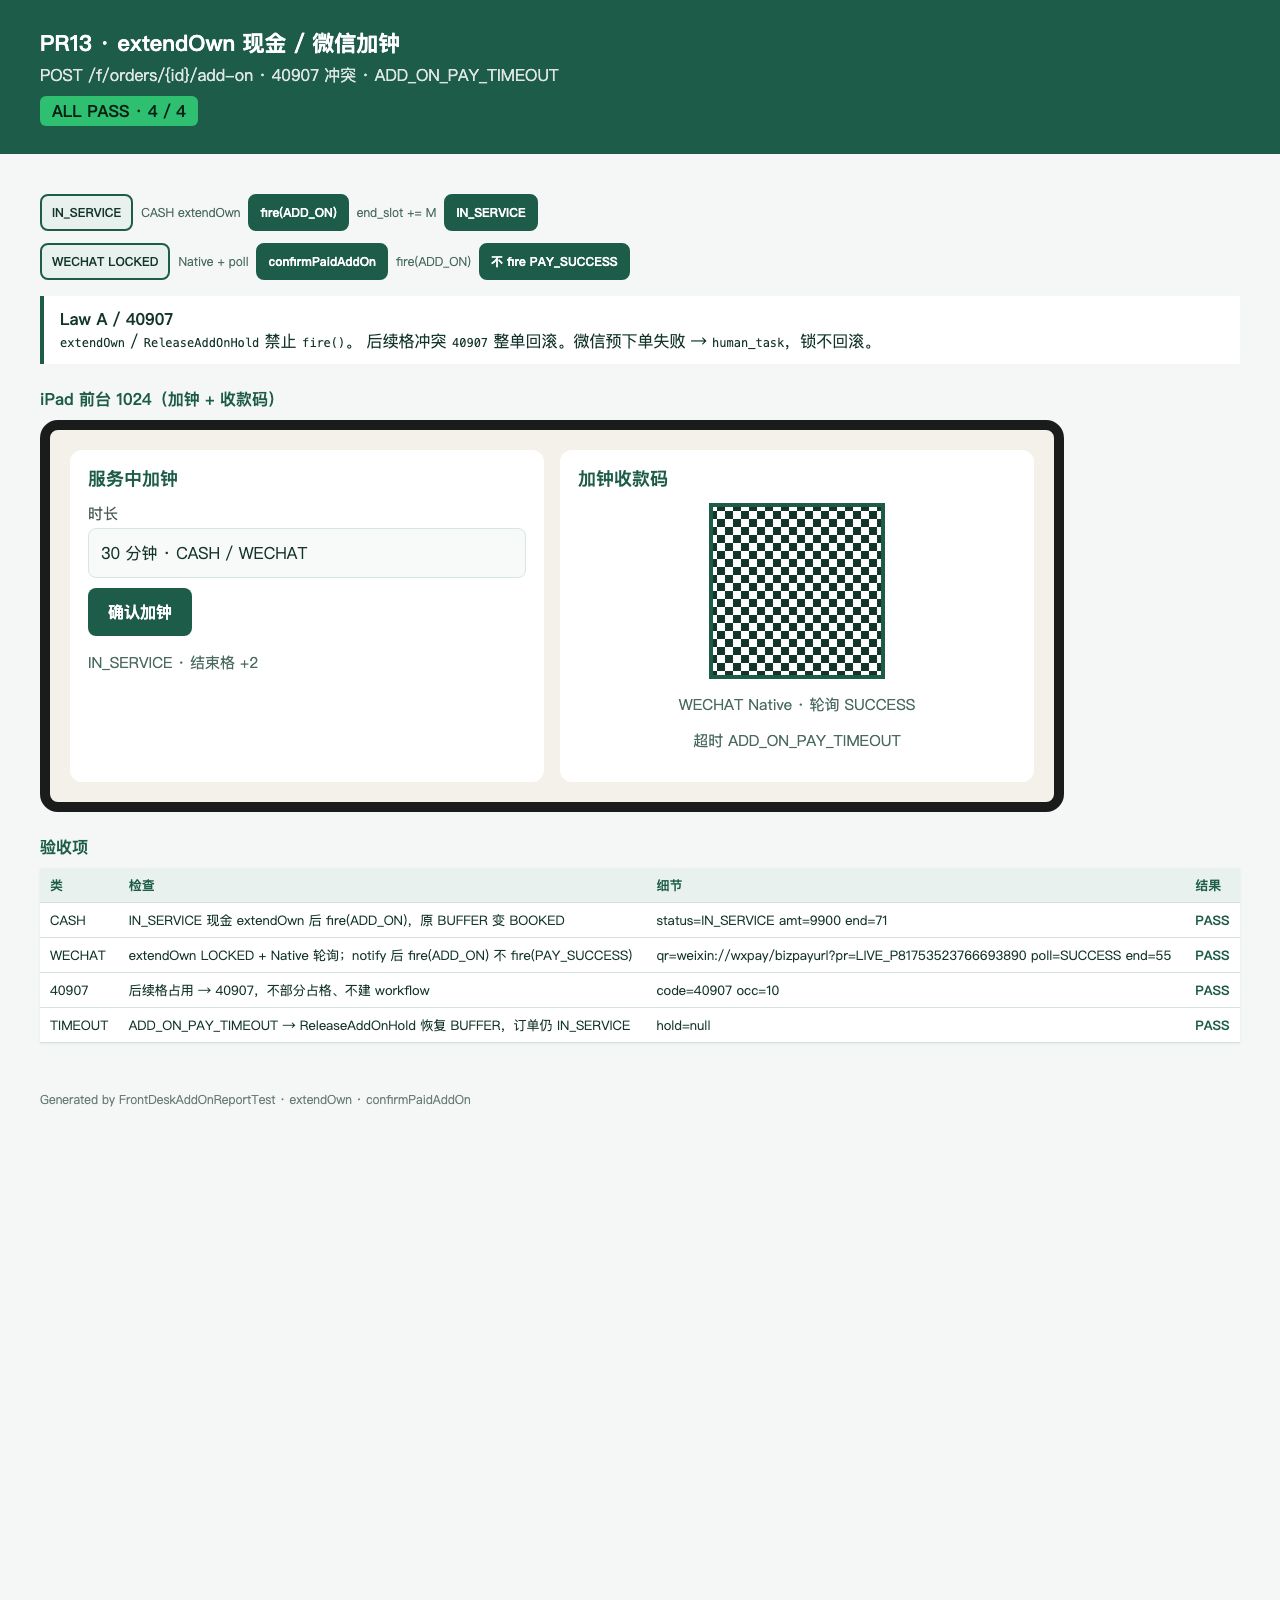
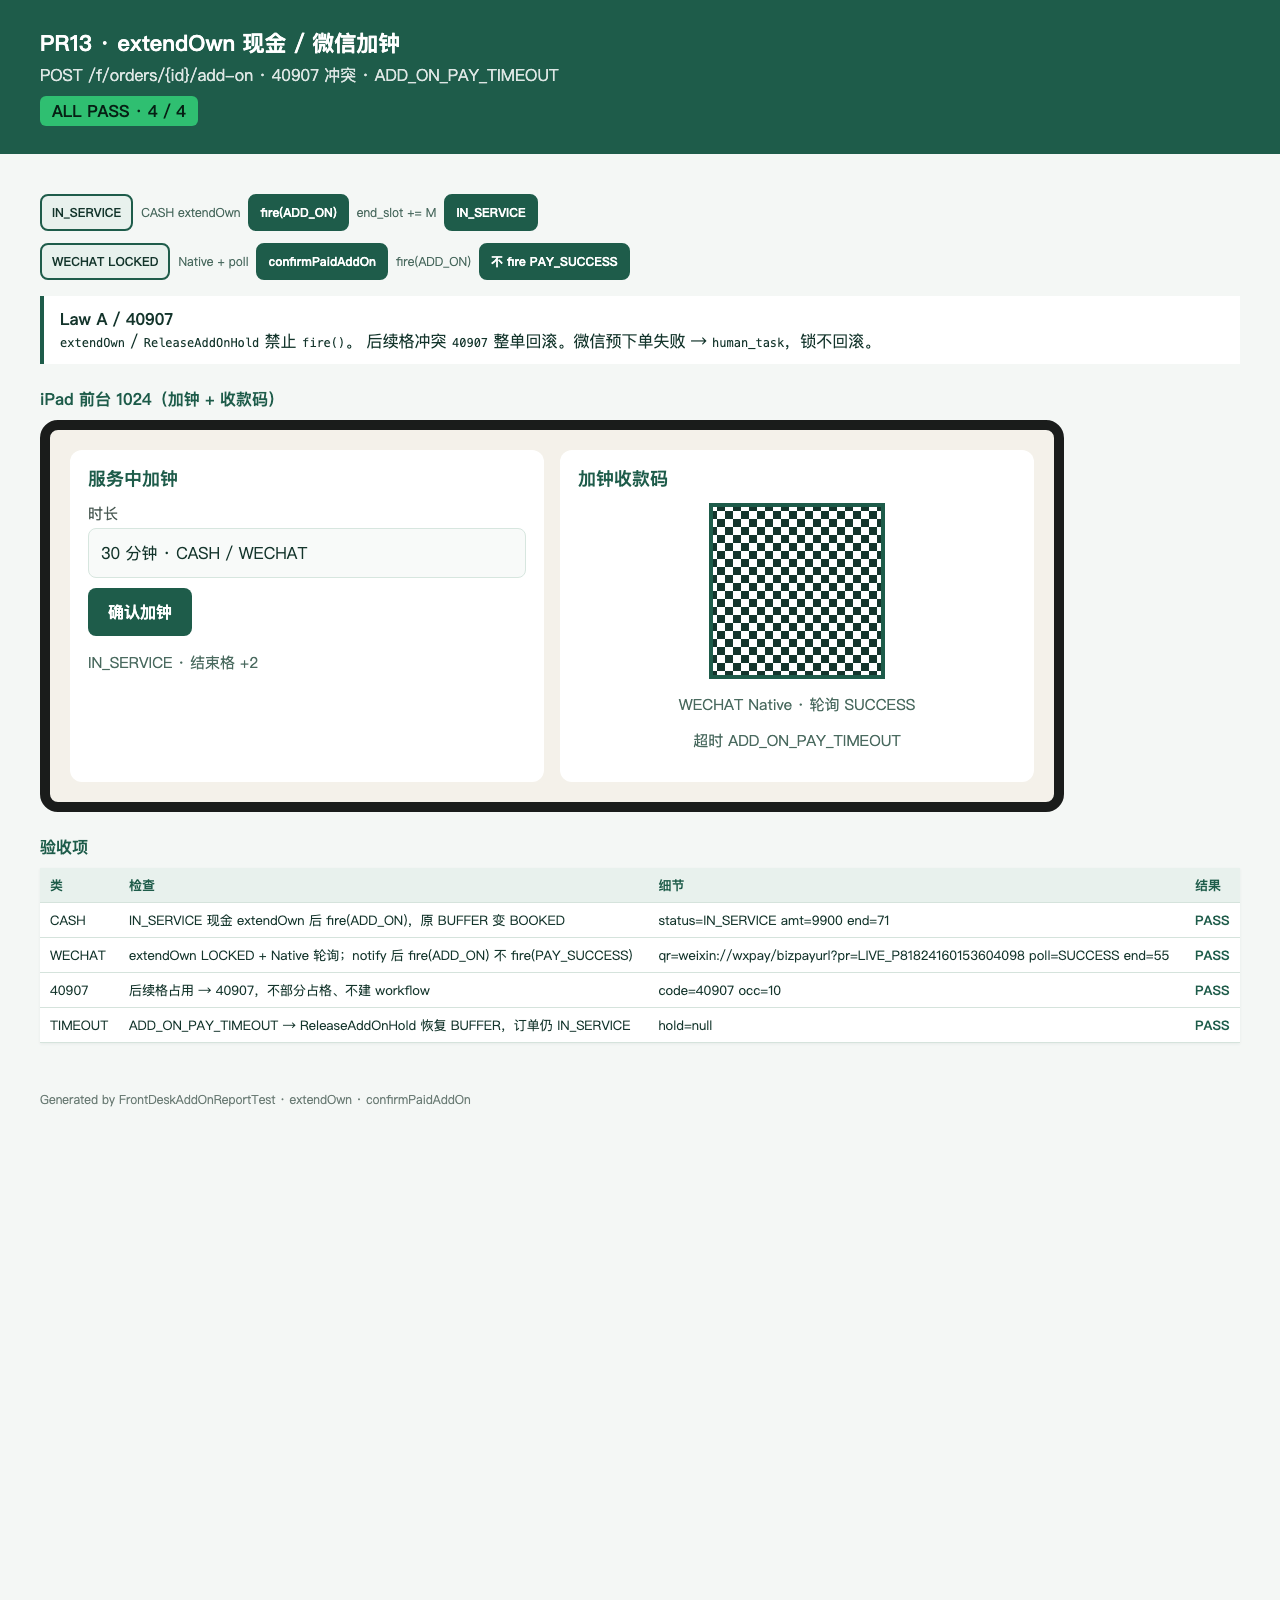
fix: make id generation and the transition table deterministic
`docs/test-cases/*.html` is committed, and every `mvn test` re-dirtied ten of
them. That is not a reporting nuisance — two of the three causes are real
defects in shipped code:

- `OrderStateMachine.transfers()` built its table with `Map.copyOf`, whose
  iteration order is salted per JVM. The public accessor therefore returned
  the state machine in a different order on every boot. Now a
  `LinkedHashMap`, which preserves the declaration order — transitions
  grouped by from-state, the order a reader expects.
- `SnowflakeIdGenerator` read `System.currentTimeMillis()` directly, so the
  one knob that freezes time could not freeze id generation. It now takes the
  shared `Clock` bean; under a fixed clock the sequence is reproducible.

The third is genuine nondeterminism and stays that way: which racer wins in
`LockNewReportTest` is the point of the test. Only the report rows are now
sorted — the outcome multiset is the claim being made, not who drew which
outcome.

`SnowflakeIdGenerator` deliberately keeps a single constructor. A convenience
overload would sit next to `AppClock`, which is itself a `Clock` wrapper, and
the two would be one import away from being silently swapped at a call site.

Reports regenerated; three consecutive full runs now produce byte-identical
output, screenshots included.

Changed region(s): [[0.5, 0.5625, 0.875, 0.625], [0.0938, 0.5938, 0.3438, 0.625]]

diff --git a/docs/test-cases/pr-6-state-machine.html b/docs/test-cases/pr-6-state-machine.html
@@ -96,28 +96,28 @@
     <table>
       <thead><tr><th>类</th><th>检查</th><th>细节</th><th>结果</th></tr></thead>
       <tbody>
-<tr class='ok'><td>TABLE</td><td>IN_SERVICE + COMPLETE_SERVICE → COMPLETED</td><td>[ENDED_AT]</td><td>PASS</td></tr>
-<tr class='ok'><td>TABLE</td><td>BOOKED + MARK_NO_SHOW → NO_SHOW</td><td>[RELEASE_UNCONSUMED_START, NO_SHOW_COUNT]</td><td>PASS</td></tr>
-<tr class='ok'><td>TABLE</td><td>BOOKED + CANCEL → CANCELLED</td><td>[REFUND, RELEASE_UNCONSUMED_START]</td><td>PASS</td></tr>
-<tr class='ok'><td>TABLE</td><td>IN_SERVICE + SWAP_THERAPIST → IN_SERVICE</td><td>[SWAP_THERAPIST]</td><td>PASS</td></tr>
-<tr class='ok'><td>TABLE</td><td>COMPLETED + REVIEW → REVIEWED</td><td>[NONE]</td><td>PASS</td></tr>
-<tr class='ok'><td>TABLE</td><td>IN_SERVICE + ABORT → ABNORMAL</td><td>[RELEASE_UNCONSUMED_NOW]</td><td>PASS</td></tr>
-<tr class='ok'><td>TABLE</td><td>IN_SERVICE + REFUND → CANCELLED</td><td>[REFUND, RELEASE_UNCONSUMED_NOW]</td><td>PASS</td></tr>
+<tr class='ok'><td>TABLE</td><td>PENDING_PAY + PAY_SUCCESS → BOOKED</td><td>[CONFIRM_PAID]</td><td>PASS</td></tr>
 <tr class='ok'><td>TABLE</td><td>PENDING_PAY + PAY_TIMEOUT → CLOSED</td><td>[RELEASE_LOCK]</td><td>PASS</td></tr>
-<tr class='ok'><td>TABLE</td><td>ABNORMAL + RESOLVE_CANCEL → CANCELLED</td><td>[RELEASE_UNCONSUMED_NOW]</td><td>PASS</td></tr>
+<tr class='ok'><td>TABLE</td><td>PENDING_PAY + USER_CANCEL → CLOSED</td><td>[RELEASE_LOCK]</td><td>PASS</td></tr>
+<tr class='ok'><td>TABLE</td><td>BOOKED + CHECK_IN → CHECKED_IN</td><td>[CHECKED_IN_AT]</td><td>PASS</td></tr>
+<tr class='ok'><td>TABLE</td><td>BOOKED + CANCEL → CANCELLED</td><td>[REFUND, RELEASE_UNCONSUMED_START]</td><td>PASS</td></tr>
+<tr class='ok'><td>TABLE</td><td>BOOKED + REFUND → CANCELLED</td><td>[REFUND, RELEASE_UNCONSUMED_START]</td><td>PASS</td></tr>
+<tr class='ok'><td>TABLE</td><td>BOOKED + RESCHEDULE → BOOKED</td><td>[RESCHEDULE]</td><td>PASS</td></tr>
+<tr class='ok'><td>TABLE</td><td>BOOKED + MARK_NO_SHOW → NO_SHOW</td><td>[RELEASE_UNCONSUMED_START, NO_SHOW_COUNT]</td><td>PASS</td></tr>
 <tr class='ok'><td>TABLE</td><td>CHECKED_IN + START_SERVICE → IN_SERVICE</td><td>[SERVICE_RECORD]</td><td>PASS</td></tr>
 <tr class='ok'><td>TABLE</td><td>CHECKED_IN + SWAP_THERAPIST → CHECKED_IN</td><td>[SWAP_THERAPIST]</td><td>PASS</td></tr>
-<tr class='ok'><td>TABLE</td><td>BOOKED + RESCHEDULE → BOOKED</td><td>[RESCHEDULE]</td><td>PASS</td></tr>
-<tr class='ok'><td>TABLE</td><td>IN_SERVICE + ADD_ON_PAY_TIMEOUT → IN_SERVICE</td><td>[RELEASE_ADDON]</td><td>PASS</td></tr>
 <tr class='ok'><td>TABLE</td><td>CHECKED_IN + REFUND → CANCELLED</td><td>[REFUND, RELEASE_UNCONSUMED_START]</td><td>PASS</td></tr>
-<tr class='ok'><td>TABLE</td><td>BOOKED + REFUND → CANCELLED</td><td>[REFUND, RELEASE_UNCONSUMED_START]</td><td>PASS</td></tr>
-<tr class='ok'><td>TABLE</td><td>COMPLETED + REFUND → COMPLETED</td><td>[REFUND]</td><td>PASS</td></tr>
+<tr class='ok'><td>TABLE</td><td>IN_SERVICE + COMPLETE_SERVICE → COMPLETED</td><td>[ENDED_AT]</td><td>PASS</td></tr>
 <tr class='ok'><td>TABLE</td><td>IN_SERVICE + ADD_ON → IN_SERVICE</td><td>[NONE]</td><td>PASS</td></tr>
-<tr class='ok'><td>TABLE</td><td>BOOKED + CHECK_IN → CHECKED_IN</td><td>[CHECKED_IN_AT]</td><td>PASS</td></tr>
-<tr class='ok'><td>TABLE</td><td>PENDING_PAY + PAY_SUCCESS → BOOKED</td><td>[CONFIRM_PAID]</td><td>PASS</td></tr>
-<tr class='ok'><td>TABLE</td><td>CANCELLED + MARK_NO_SHOW → NO_SHOW</td><td>[NO_SHOW_COUNT]</td><td>PASS</td></tr>
+<tr class='ok'><td>TABLE</td><td>IN_SERVICE + ADD_ON_PAY_TIMEOUT → IN_SERVICE</td><td>[RELEASE_ADDON]</td><td>PASS</td></tr>
+<tr class='ok'><td>TABLE</td><td>IN_SERVICE + SWAP_THERAPIST → IN_SERVICE</td><td>[SWAP_THERAPIST]</td><td>PASS</td></tr>
+<tr class='ok'><td>TABLE</td><td>IN_SERVICE + ABORT → ABNORMAL</td><td>[RELEASE_UNCONSUMED_NOW]</td><td>PASS</td></tr>
+<tr class='ok'><td>TABLE</td><td>IN_SERVICE + REFUND → CANCELLED</td><td>[REFUND, RELEASE_UNCONSUMED_NOW]</td><td>PASS</td></tr>
 <tr class='ok'><td>TABLE</td><td>ABNORMAL + RESOLVE_COMPLETE → COMPLETED</td><td>[NONE]</td><td>PASS</td></tr>
-<tr class='ok'><td>TABLE</td><td>PENDING_PAY + USER_CANCEL → CLOSED</td><td>[RELEASE_LOCK]</td><td>PASS</td></tr>
+<tr class='ok'><td>TABLE</td><td>ABNORMAL + RESOLVE_CANCEL → CANCELLED</td><td>[RELEASE_UNCONSUMED_NOW]</td><td>PASS</td></tr>
+<tr class='ok'><td>TABLE</td><td>COMPLETED + REVIEW → REVIEWED</td><td>[NONE]</td><td>PASS</td></tr>
+<tr class='ok'><td>TABLE</td><td>COMPLETED + REFUND → COMPLETED</td><td>[REFUND]</td><td>PASS</td></tr>
+<tr class='ok'><td>TABLE</td><td>CANCELLED + MARK_NO_SHOW → NO_SHOW</td><td>[NO_SHOW_COUNT]</td><td>PASS</td></tr>
 <tr class='ok'><td>CLOSED</td><td>未列出 (from,event) 全部 40904</td><td>illegal=148 40904=148</td><td>PASS</td></tr>
 <tr class='ok'><td>SIDE</td><td>PENDING_PAY + PAY_SUCCESS → BOOKED + confirmPaidSlots</td><td>status=BOOKED job=DONE</td><td>PASS</td></tr>
 <tr class='ok'><td>LAW A</td><td>fire 写 CLOSED 后 ReleaseLock；ReleaseLock 不再 fire</td><td>to=CLOSED</td><td>PASS</td></tr>

diff --git a/docs/test-cases/pr-21-manager-m1.html b/docs/test-cases/pr-21-manager-m1.html
@@ -86,11 +86,11 @@
       <div class="card">
         <div class="h2">待办 · 3</div>
 <div class='group-label'>请假审批 · 1</div>
-<div class='task'><div class='task-main'><div class='task-title'>请假审批 2026-08-16 技师 3100000000000000401</div><div class='task-meta'>LEAVE_APPROVE · leave:81753521241722880</div></div><div class='acts'><div class='btn'>通过</div><div class='btn ghost'>驳回</div></div></div>
+<div class='task'><div class='task-main'><div class='task-title'>请假审批 2026-08-16 技师 3100000000000000401</div><div class='task-meta'>LEAVE_APPROVE · leave:81824160153604132</div></div><div class='acts'><div class='btn'>通过</div><div class='btn ghost'>驳回</div></div></div>
 <div class='group-label'>退款审批 ≥¥500 · 1</div>
-<div class='task'><div class='task-main'><div class='task-title'>退款待审批 ≥¥500（审批=放款）</div><div class='task-meta'>REFUND_APPROVE · refund_approve:81753521476603904</div></div><div class='acts'><div class='btn'>通过</div><div class='btn ghost'>驳回</div></div></div>
+<div class='task'><div class='task-main'><div class='task-title'>退款待审批 ≥¥500（审批=放款）</div><div class='task-meta'>REFUND_APPROVE · refund_approve:81824160153604172</div></div><div class='acts'><div class='btn'>通过</div><div class='btn ghost'>驳回</div></div></div>
 <div class='group-label'>异常单 · 1</div>
-<div class='task'><div class='task-main'><div class='task-title'>异常单待处理 JS2026081413026049</div><div class='task-meta'>ORDER_ABNORMAL · abnormal:81753521313026049</div></div><div class='acts'><div class='btn'>按完成</div><div class='btn ghost'>按取消</div><div class='btn ghost'>忽略</div></div></div>
+<div class='task'><div class='task-main'><div class='task-title'>异常单待处理 JS2026081453604137</div><div class='task-meta'>ORDER_ABNORMAL · abnormal:81824160153604137</div></div><div class='acts'><div class='btn'>按完成</div><div class='btn ghost'>按取消</div><div class='btn ghost'>忽略</div></div></div>
       </div>
     </div>
   </div>

diff --git a/docs/test-cases/pr-21-manager-board.html b/docs/test-cases/pr-21-manager-board.html
@@ -49,12 +49,12 @@
 <tr class='ok'><td>M1</td><td>落单后满班率上升（分母不含 REST）</td><td>0 → 347</td><td>PASS</td></tr>
 <tr class='ok'><td>M1</td><td>分时满班率有峰值，可定位忙闲</td><td>peak=3333 fullDay=347</td><td>PASS</td></tr>
 <tr class='ok'><td>QUEUE</td><td>OPEN 队列同时含请假 / 退款 / 异常单</td><td>leave=1 refund=1 abnormal=1 queue=0</td><td>PASS</td></tr>
-<tr class='ok'><td>QUEUE</td><td>未知类型兜底进人工队列，不丢单</td><td>bizKey=leave:81753521241722880</td><td>PASS</td></tr>
+<tr class='ok'><td>QUEUE</td><td>未知类型兜底进人工队列，不丢单</td><td>bizKey=leave:81824160153604132</td><td>PASS</td></tr>
 <tr class='ok'><td>RBAC</td><td>前台无 schedule:approve → 40301</td><td>40301</td><td>PASS</td></tr>
 <tr class='ok'><td>M1</td><td>通过请假 → FREE 翻 REST，任务关闭</td><td>status=APPROVED restSlots=8</td><td>PASS</td></tr>
 <tr class='ok'><td>M1</td><td>异常单按完成结单 → COMPLETED + DONE</td><td>order=COMPLETED task=DONE</td><td>PASS</td></tr>
 <tr class='ok'><td>M1</td><td>≥¥500 退款审批通过 → 微信退款真调用</td><td>wf=SUCCESS refundCalls=2</td><td>PASS</td></tr>
-<tr class='ok'><td>QUEUE</td><td>处理完队列清空，店长台回到 0 待办</td><td>open=0 refundOrder=81753521396912129</td><td>PASS</td></tr>
+<tr class='ok'><td>QUEUE</td><td>处理完队列清空，店长台回到 0 待办</td><td>open=0 refundOrder=81824160153604157</td><td>PASS</td></tr>
 <tr class='ok'><td>A11Y</td><td>正文最小字号 ≥ 30rpx(15px)</td><td>min=30rpx</td><td>PASS</td></tr>
 <tr class='ok'><td>A11Y</td><td>主操作 ≥ 96rpx(48px) tap target</td><td>btn 96rpx / tag 96rpx</td><td>PASS</td></tr>
 <tr class='ok'><td>A11Y</td><td>分组 key 语义化，无数字编号</td><td>leave / refund / abnormal / queue</td><td>PASS</td></tr>

diff --git a/docs/test-cases/pr-10-staff-board.html b/docs/test-cases/pr-10-staff-board.html
@@ -46,12 +46,12 @@
       <thead><tr><th>类</th><th>检查</th><th>细节</th><th>结果</th></tr></thead>
       <tbody>
 <tr class='ok'><td>AUTH</td><td>GET /t/today 无 JWT → 40101</td><td>40101</td><td>PASS</td></tr>
-<tr class='ok'><td>T1</td><td>下一单卡片 who/when/bed/project/new guest</td><td>{orderId=81753539675688961, status=CHECKED_IN, start=19:30, end=20:30, projectName=全身推拿放松, roomName=一号房, bedName=1号床, customerName=王先生, isNewCustomer=true, minutesToStart=310}</td><td>PASS</td></tr>
+<tr class='ok'><td>T1</td><td>下一单卡片 who/when/bed/project/new guest</td><td>{orderId=81824160153604502, status=CHECKED_IN, start=19:30, end=20:30, projectName=全身推拿放松, roomName=一号房, bedName=1号床, customerName=王先生, isNewCustomer=true, minutesToStart=30}</td><td>PASS</td></tr>
 <tr class='ok'><td>T2</td><td>POST /t/orders/{id}/start → IN_SERVICE</td><td>IN_SERVICE</td><td>PASS</td></tr>
 <tr class='ok'><td>T2</td><td>他师 start → 40904</td><td>40904</td><td>PASS</td></tr>
 <tr class='ok'><td>NOTE</td><td>服务技师空记录 GET 200 []</td><td>items=[]</td><td>PASS</td></tr>
 <tr class='ok'><td>NOTE</td><td>D27 无同意 40301；POST 只增；GET 仅本人</td><td>deny=40301 items=1 t2=40401</td><td>PASS</td></tr>
-<tr class='ok'><td>T1</td><td>GET /t/me/today 别名 + GET /t/orders/{id} 绑定本单</td><td>opened=81753539675688961 record=true</td><td>PASS</td></tr>
+<tr class='ok'><td>T1</td><td>GET /t/me/today 别名 + GET /t/orders/{id} 绑定本单</td><td>opened=81824160153604502 record=true</td><td>PASS</td></tr>
 <tr class='ok'><td>T2</td><td>POST /t/orders/{id}/complete → COMPLETED</td><td>COMPLETED</td><td>PASS</td></tr>
       </tbody>
     </table>

diff --git a/docs/test-cases/pr-11-frontdesk.html b/docs/test-cases/pr-11-frontdesk.html
@@ -102,8 +102,8 @@
       <thead><tr><th>类</th><th>检查</th><th>细节</th><th>结果</th></tr></thead>
       <tbody>
 <tr class='ok'><td>CASH</td><td>散客现金 lockNew → PAY_SUCCESS → 同事务 CHECK_IN</td><td>status=CHECKED_IN mask=186****1111</td><td>PASS</td></tr>
-<tr class='ok'><td>MERGE</td><td>同一手机 CustomerMerge 复用散客行</td><td>customer=81753523322097664 orders=9100000000000000002/9100000000000000017</td><td>PASS</td></tr>
-<tr class='ok'><td>WECHAT</td><td>Native 收款码 + GET /f/payments 轮询至 SUCCESS 再核销</td><td>qr=weixin://wxpay/bizpayurl?pr=LIVE_P81753523326291969 poll=SUCCESS checkIn=CHECKED_IN</td><td>PASS</td></tr>
+<tr class='ok'><td>MERGE</td><td>同一手机 CustomerMerge 复用散客行</td><td>customer=81824160153604096 orders=9100000000000000002/9100000000000000017</td><td>PASS</td></tr>
+<tr class='ok'><td>WECHAT</td><td>Native 收款码 + GET /f/payments 轮询至 SUCCESS 再核销</td><td>qr=weixin://wxpay/bizpayurl?pr=LIVE_P81824160153604097 poll=SUCCESS checkIn=CHECKED_IN</td><td>PASS</td></tr>
 <tr class='ok'><td>LOOKUP</td><td>按手机 / 单号查找后 fire(CHECK_IN)</td><td>orderNo=JS2026081400000002 room=一号房 bed=1号床</td><td>PASS</td></tr>
       </tbody>
     </table>

diff --git a/docs/test-cases/pr-16-refund.html b/docs/test-cases/pr-16-refund.html
@@ -106,7 +106,7 @@
 <tr class='ok'><td>TWO</td><td>双 SUCCESS payment → 两张退款 / 两次微信</td><td>refunds=2 wechat=2</td><td>PASS</td></tr>
 <tr class='ok'><td>CASH</td><td>现金只记账不调微信</td><td>wxId=CASH wechat=0</td><td>PASS</td></tr>
 <tr class='ok'><td>APPROVE</td><td>≥50000 先 WAIT_APPROVAL，approve 后再调微信</td><td>wait=WAIT_APPROVAL after=SUCCESS wechat=2</td><td>PASS</td></tr>
-<tr class='ok'><td>IDEM</td><td>同一 requestId / refund_no 重放</td><td>refundNo=R81753506431635456 replay=true</td><td>PASS</td></tr>
+<tr class='ok'><td>IDEM</td><td>同一 requestId / refund_no 重放</td><td>refundNo=R81824160153604096 replay=true</td><td>PASS</td></tr>
 <tr class='ok'><td>PERM</td><td>IN_SERVICE 无 refund:after_start → 40904</td><td>40904=true</td><td>PASS</td></tr>
 <tr class='ok'><td>PENDING</td><td>PENDING_PAY 禁止走退款 API</td><td>status=PENDING_PAY → 40904</td><td>PASS</td></tr>
 <tr class='ok'><td>FAIL</td><td>微信退款失败 → workflow MANUAL + human_task</td><td>wf=MANUAL refund=FAILED</td><td>PASS</td></tr>

diff --git a/docs/test-cases/pr-13-addon.html b/docs/test-cases/pr-13-addon.html
@@ -95,7 +95,7 @@
       <thead><tr><th>类</th><th>检查</th><th>细节</th><th>结果</th></tr></thead>
       <tbody>
 <tr class='ok'><td>CASH</td><td>IN_SERVICE 现金 extendOwn 后 fire(ADD_ON)，原 BUFFER 变 BOOKED</td><td>status=IN_SERVICE amt=9900 end=71</td><td>PASS</td></tr>
-<tr class='ok'><td>WECHAT</td><td>extendOwn LOCKED + Native 轮询；notify 后 fire(ADD_ON) 不 fire(PAY_SUCCESS)</td><td>qr=weixin://wxpay/bizpayurl?pr=LIVE_P81753523766693890 poll=SUCCESS end=55</td><td>PASS</td></tr>
+<tr class='ok'><td>WECHAT</td><td>extendOwn LOCKED + Native 轮询；notify 后 fire(ADD_ON) 不 fire(PAY_SUCCESS)</td><td>qr=weixin://wxpay/bizpayurl?pr=LIVE_P81824160153604098 poll=SUCCESS end=55</td><td>PASS</td></tr>
 <tr class='ok'><td>40907</td><td>后续格占用 → 40907，不部分占格、不建 workflow</td><td>code=40907 occ=10</td><td>PASS</td></tr>
 <tr class='ok'><td>TIMEOUT</td><td>ADD_ON_PAY_TIMEOUT → ReleaseAddOnHold 恢复 BUFFER，订单仍 IN_SERVICE</td><td>hold=null</td><td>PASS</td></tr>
       </tbody>

diff --git a/docs/test-cases/pr-8-notify-pay.html b/docs/test-cases/pr-8-notify-pay.html
@@ -80,7 +80,7 @@
 <tr class='ok'><td>NOTIFY</td><td>金额不符 → FAILED + human_task + APIv3 SUCCESS</td><td>pay=FAILED order=PENDING_PAY tasks=1</td><td>PASS</td></tr>
 <tr class='ok'><td>REFUND</td><td>CLOSED+已扣款 → 入退款队列且不 PAY_SUCCESS</td><td>order=CLOSED occ=0 refund=PENDING wf=REFUND</td><td>PASS</td></tr>
 <tr class='ok'><td>D25</td><td>先支付再跑原 RELEASE_LOCK → 订单 BOOKED、job DONE</td><td>order=BOOKED job=DONE fire=40904 occ=10</td><td>PASS</td></tr>
-<tr class='ok'><td>REPAY</td><td>1:1 prepay 未过期复用</td><td>paymentNo=P81753506381303808 reused=true</td><td>PASS</td></tr>
+<tr class='ok'><td>REPAY</td><td>1:1 prepay 未过期复用</td><td>paymentNo=P81824160153604096 reused=true</td><td>PASS</td></tr>
       </tbody>
     </table>
   </main>

diff --git a/docs/test-cases/pr-10-t1-t2.html b/docs/test-cases/pr-10-t1-t2.html
@@ -43,7 +43,7 @@
 <body>
   <header>
     <h1>mini-staff T1 / T2 HTML preview</h1>
-    <p>WeChat 开发者工具未接入时的页面验收。最小字号 15px，主操作 48px tap target。orderId=81753539675688961</p>
+    <p>WeChat 开发者工具未接入时的页面验收。最小字号 15px，主操作 48px tap target。orderId=81824160153604502</p>
   </header>
   <div class="wrap">
     <div class="phone">

diff --git a/docs/test-cases/pr-3b-lock-report.html b/docs/test-cases/pr-3b-lock-report.html
@@ -67,8 +67,8 @@
       <thead><tr><th>code</th><th>含义</th></tr></thead>
       <tbody>
         <tr><td>0</td><td>success PENDING_PAY</td></tr>
-<tr><td>40902</td><td>40902 无空闲床位</td></tr>
 <tr><td>0</td><td>success PENDING_PAY</td></tr>
+<tr><td>40902</td><td>40902 无空闲床位</td></tr>
 
       </tbody>
     </table>

diff --git a/server/src/main/java/com/jisuodashi/common/SnowflakeIdGenerator.java b/server/src/main/java/com/jisuodashi/common/SnowflakeIdGenerator.java
@@ -2,6 +2,7 @@ package com.jisuodashi.common;
 
 import org.springframework.stereotype.Component;
 
+import java.time.Clock;
 import java.time.Instant;
 import java.util.concurrent.atomic.AtomicLong;
 
@@ -18,18 +19,26 @@ public class SnowflakeIdGenerator {
     private static final long MAX_SEQ = (1L << SEQ_BITS) - 1;
 
     private final long workerId;
+    private final Clock clock;
     private final AtomicLong lastMsAndSeq = new AtomicLong(0);
 
-    public SnowflakeIdGenerator(AppProperties properties) {
+    /**
+     * Takes the shared {@link Clock} bean rather than reading the wall clock directly, so the one
+     * knob that freezes time freezes id generation with it. Under a fixed clock the sequence is
+     * reproducible, which is what makes the generated HTML reports byte-stable instead of
+     * re-dirtying the working tree on every {@code mvn test}.
+     */
+    public SnowflakeIdGenerator(AppProperties properties, Clock clock) {
         long id = properties.getSnowflake().getWorkerId();
         if (id < 0 || id > MAX_WORKER) {
             throw new IllegalArgumentException("snowflake worker-id out of range: " + id);
         }
         this.workerId = id;
+        this.clock = clock;
     }
 
     public synchronized long nextId() {
-        long now = Math.max(System.currentTimeMillis(), EPOCH_MS);
+        long now = Math.max(clock.millis(), EPOCH_MS);
         long packed = lastMsAndSeq.get();
         long lastMs = packed >>> SEQ_BITS;
         long seq = packed & MAX_SEQ;

diff --git a/server/src/main/java/com/jisuodashi/order/OrderStateMachine.java b/server/src/main/java/com/jisuodashi/order/OrderStateMachine.java
@@ -20,6 +20,7 @@ import org.springframework.transaction.support.TransactionTemplate;
 import java.time.Duration;
 import java.time.LocalDateTime;
 import java.util.ArrayList;
+import java.util.Collections;
 import java.util.LinkedHashMap;
 import java.util.List;
 import java.util.Map;
@@ -372,7 +373,10 @@ public class OrderStateMachine {
         for (OrderTransition row : rows) {
             table.put(new Key(row.from(), row.event()), row);
         }
-        return Map.copyOf(table);
+        // Not Map.copyOf: its iteration order is salted per JVM, so transfers() came back shuffled
+        // on every run. The declaration order above groups transitions by from-state, which is the
+        // order a reader of the table — or of the generated pr-6 report — expects to see.
+        return Collections.unmodifiableMap(table);
     }
 
     private record Key(OrderStatus from, OrderEvent event) {
